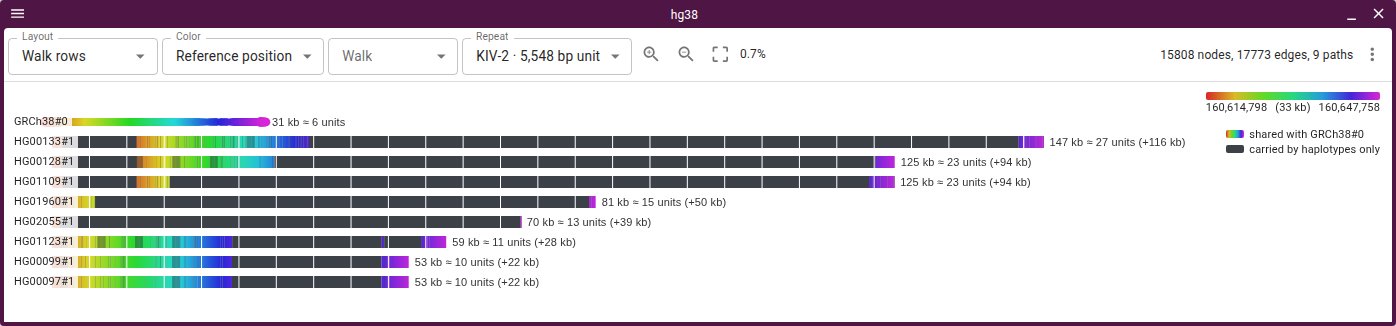
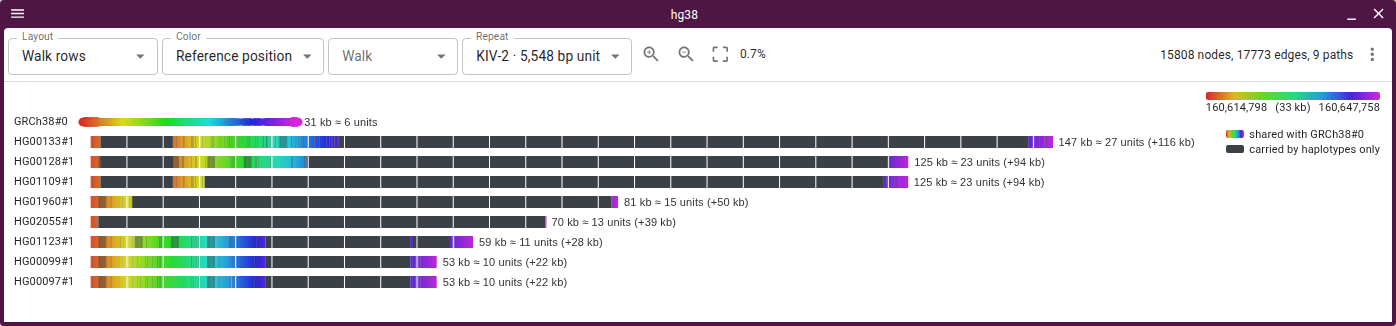
The fit starts row layouts past their row labels
Row labels sit pinned to the pane's left edge, and the fit placed the
drawing 40 px in, so on walk rows every label covered the first bars of
its row. fitTransform takes a left gap, and the model passes the widest
row label's edge. walk_rows_kiv2 reshot.

diff --git a/src/GraphGenomeView/model.test.ts b/src/GraphGenomeView/model.test.ts
@@ -4,6 +4,7 @@
 // "the submenu is called something else".
 
 import { spreadFor } from '@jbrowse/bandage-core/bubbleSpreads'
+import { rowLabelBox } from '@jbrowse/bandage-core/graphLabels'
 import {
   PROPORTIONAL_LENGTH,
   bandageAutoScale,
@@ -2011,13 +2012,16 @@ describe('a row layout draws y in pixels', () => {
     expect(model.canvasHeight).toBe(600)
     // the vertical fit is the tighter one, and is not the one taken
     expect((model.canvasHeight - 80) / model.layoutBounds!.h).toBeLessThan(
-      (model.width - 80) / model.layoutBounds!.w,
+      (model.width - model.fitPadLeft - 40) / model.layoutBounds!.w,
     )
 
     const xs = Object.values(model.nodePositions!)
       .flat()
       .map(p => p.x * model.scaleX + model.translateX)
-    expect(Math.max(...xs) - Math.min(...xs)).toBeCloseTo(model.width - 80, 5)
+    expect(Math.max(...xs) - Math.min(...xs)).toBeCloseTo(
+      model.width - model.fitPadLeft - 40,
+      5,
+    )
   })
 
   // Rows are a track's row height, so zooming the sequence axis leaves them
@@ -2174,7 +2178,19 @@ describe('what the row axis draws, in pixels', () => {
   // in the path.
   test('the backbone spans the pane', async () => {
     const model = await fitted()
-    expect(spread(render(model).map(p => p.x))).toBeCloseTo(model.width - 80, 5)
+    expect(spread(render(model).map(p => p.x))).toBeCloseTo(
+      model.width - model.fitPadLeft - 40,
+      5,
+    )
+  })
+
+  test('the fit starts the drawing right of the row labels', async () => {
+    const model = await fitted()
+    const labelsEnd = Math.max(
+      ...model.drawnRowLabels.map(r => rowLabelBox(r.label, 0).x1),
+    )
+    expect(labelsEnd).toBeGreaterThan(40)
+    expect(Math.min(...render(model).map(p => p.x))).toBeGreaterThan(labelsEnd)
   })
 
   // Zoom is an x-only gesture on this axis, so afterwards the rows are drawn in

diff --git a/src/GraphGenomeView/model.ts b/src/GraphGenomeView/model.ts
@@ -18,6 +18,7 @@ import {
 } from '@jbrowse/bandage-core/colorSchemes'
 import { deletionEdges } from '@jbrowse/bandage-core/deletionEdges'
 import { genePins } from '@jbrowse/bandage-core/genes/genePins'
+import { rowLabelBox } from '@jbrowse/bandage-core/graphLabels'
 import { layoutLabels } from '@jbrowse/bandage-core/labelLayout'
 import { ROW_HEIGHT_PX } from '@jbrowse/bandage-core/layout/rowSpacing'
 import { walkRowsExtent } from '@jbrowse/bandage-core/layout/walkRowLayout'
@@ -871,6 +872,14 @@ export function GraphPaneMixin() {
             }))
           : self.rowLabels
       },
+      // The row labels are pinned to the pane's left edge, so the fit starts
+      // the drawing past the widest one.
+      get fitPadLeft() {
+        return Math.max(
+          FIT_PADDING,
+          ...this.drawnRowLabels.map(r => rowLabelBox(r.label, 0).x1 + 6),
+        )
+      },
       // Each bubble in the window with what it is, for the variant map's
       // glyphs on the reference line.
       get bubbleGlyphs() {
@@ -1579,7 +1588,7 @@ export function GraphPaneMixin() {
               self.paneWidth,
               self.canvasHeight,
               self.pixelRows,
-              self.minFitScale,
+              { minScale: self.minFitScale, padLeft: self.fitPadLeft },
             )
           : undefined
         if (fit) {

diff --git a/packages/core/src/pipeline.ts b/packages/core/src/pipeline.ts
@@ -181,15 +181,16 @@ export function fittedTranslateY(
 // when it has extent, since an anchored window holding only backbone puts every
 // node on row 0. A row layout (`pixelRows`) fits on x alone and keeps y in
 // screen px; an isotropic one fits on whichever axis binds. Below `minScale`
-// the drawing overflows x instead, its left end at the padding.
+// the drawing overflows x instead, its left end at the padding. `padLeft`
+// widens the left gap past the row labels pinned to that edge.
 export function fitTransform(
   bounds: { minX: number; minY: number; w: number; h: number },
   paneWidth: number,
   paneHeight: number,
   pixelRows: boolean,
-  minScale = 0,
+  { minScale = 0, padLeft = FIT_PADDING } = {},
 ) {
-  const usableWidth = paneWidth - FIT_PADDING * 2
+  const usableWidth = paneWidth - padLeft - FIT_PADDING
   const usableHeight = paneHeight - FIT_PADDING * 2
   if (
     usableWidth <= 0 ||
@@ -206,7 +207,7 @@ export function fitTransform(
   const leftoverX = usableWidth - bounds.w * scale
   return {
     scale,
-    translateX: FIT_PADDING - bounds.minX * scale + Math.max(0, leftoverX) / 2,
+    translateX: padLeft - bounds.minX * scale + Math.max(0, leftoverX) / 2,
     translateY: fittedTranslateY(bounds, usableHeight, pixelRows ? 1 : scale),
   }
 }
